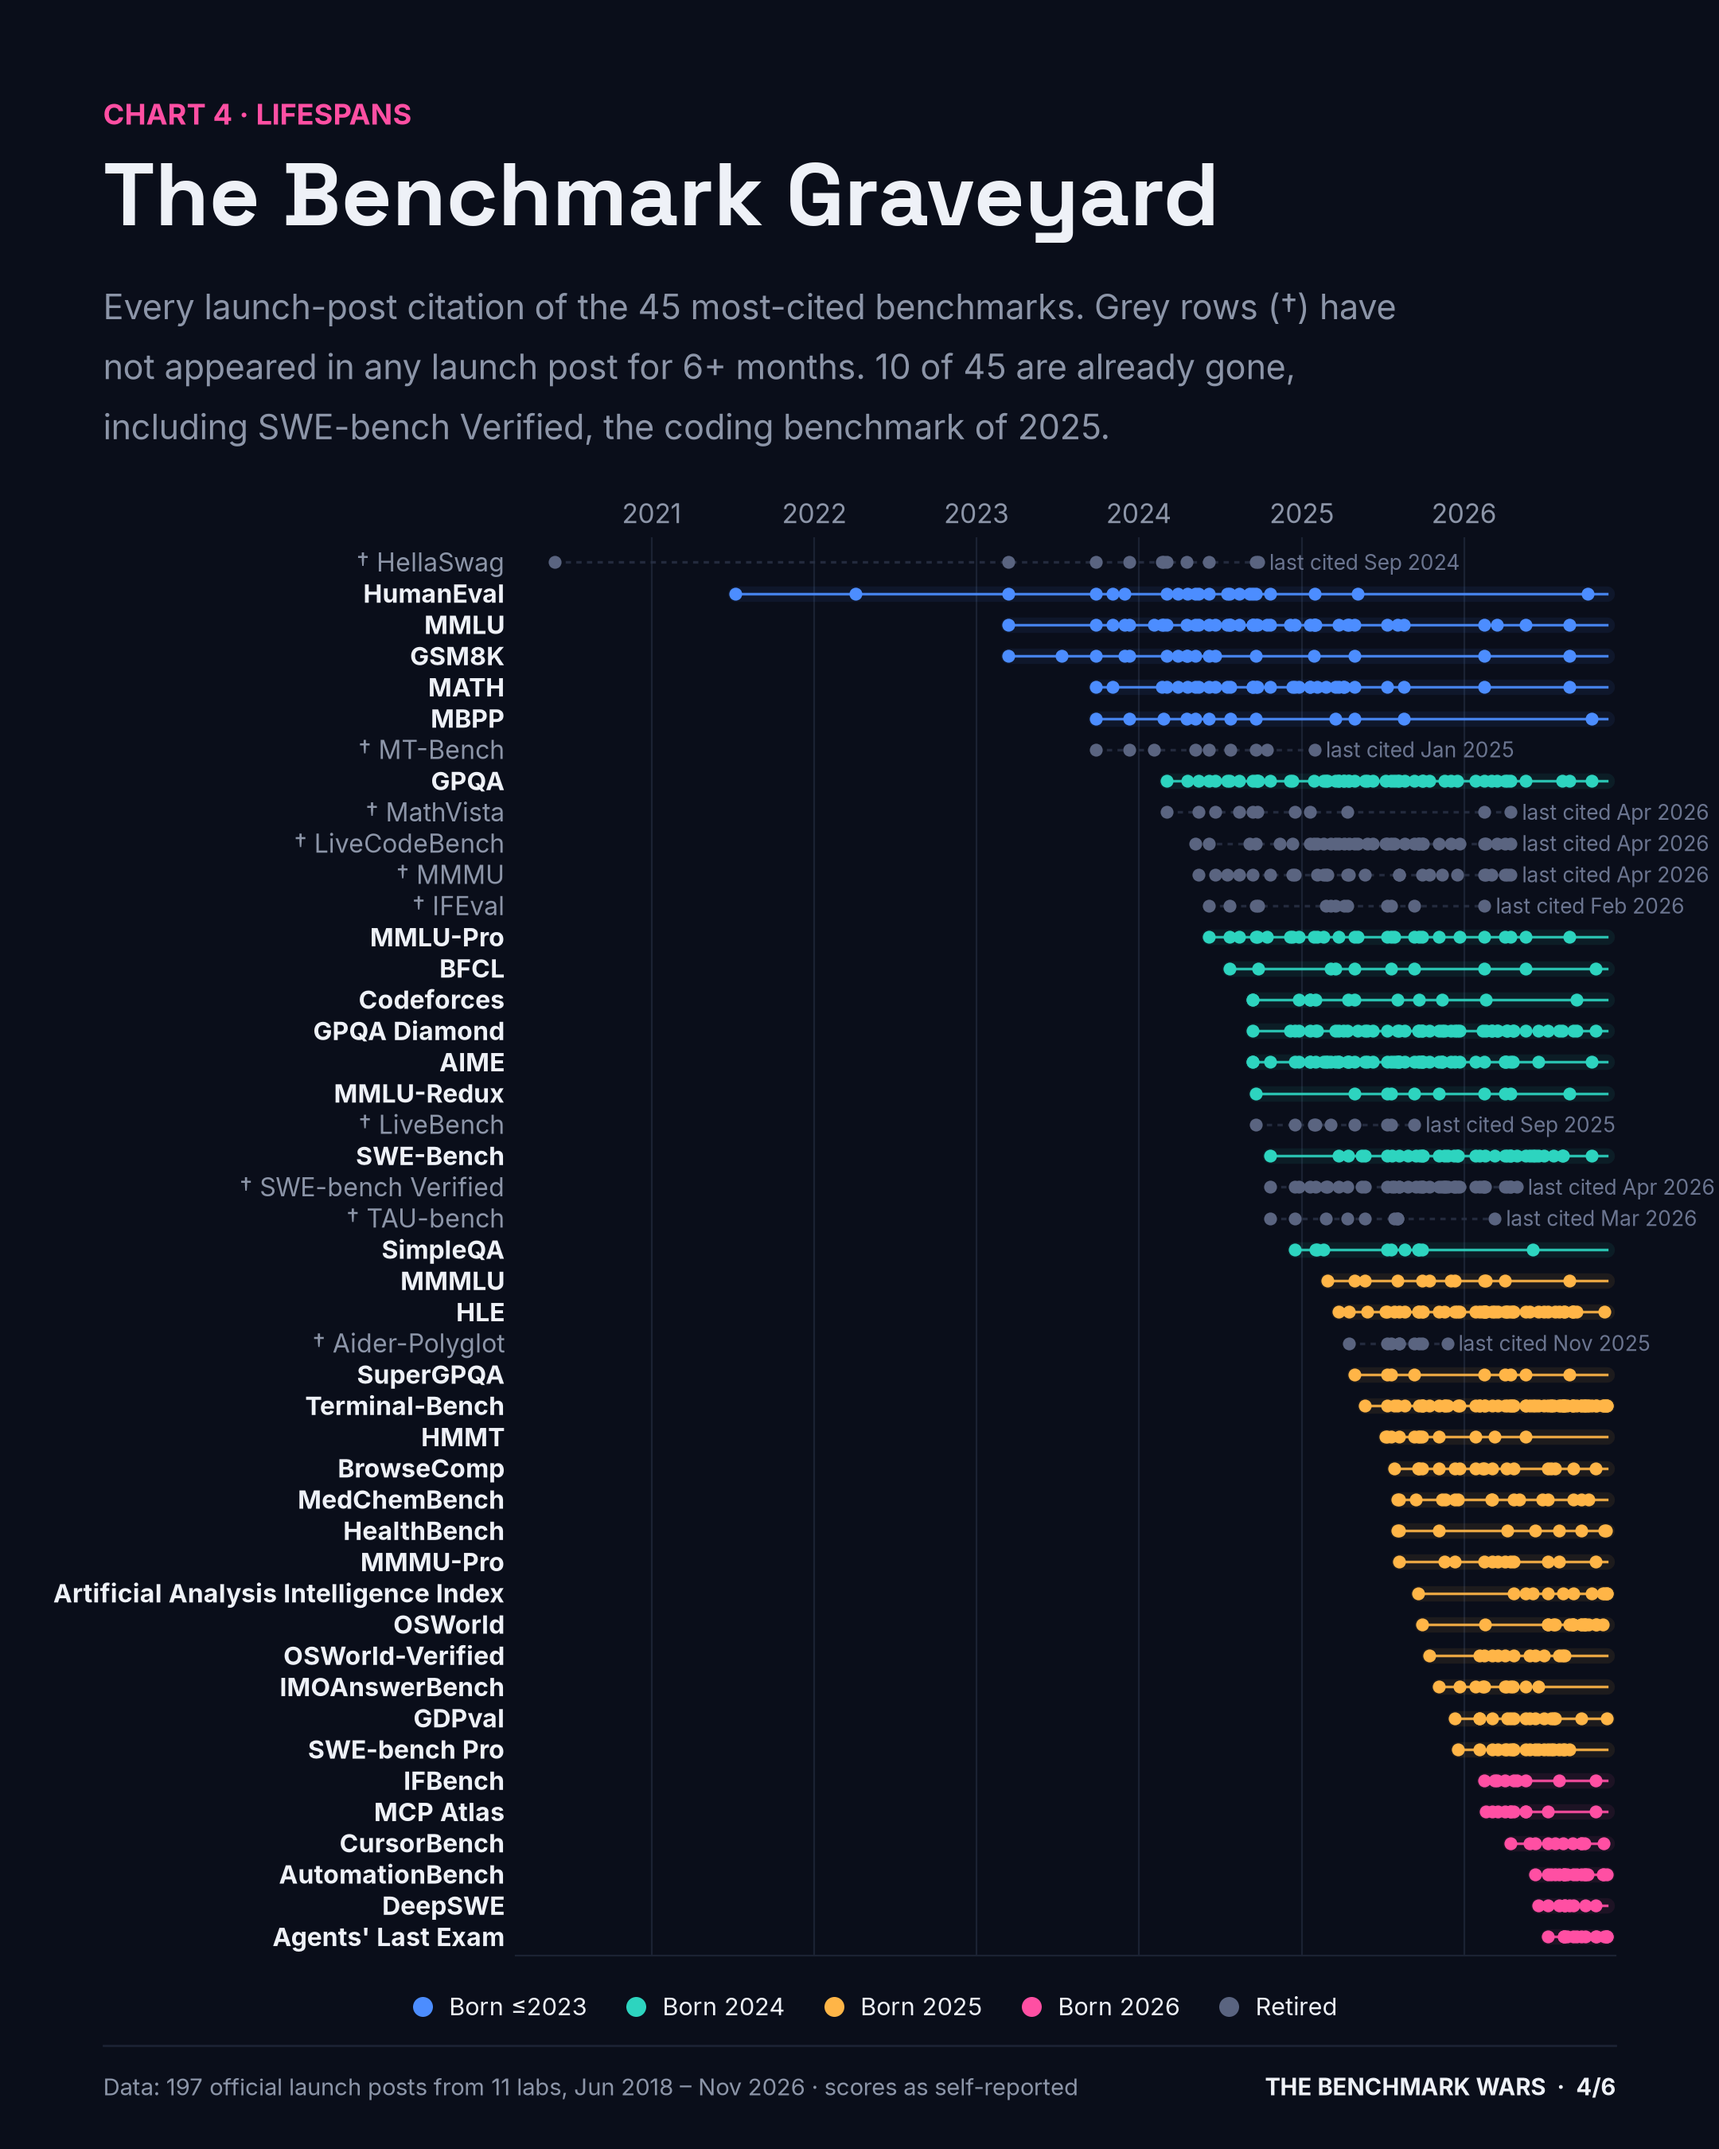
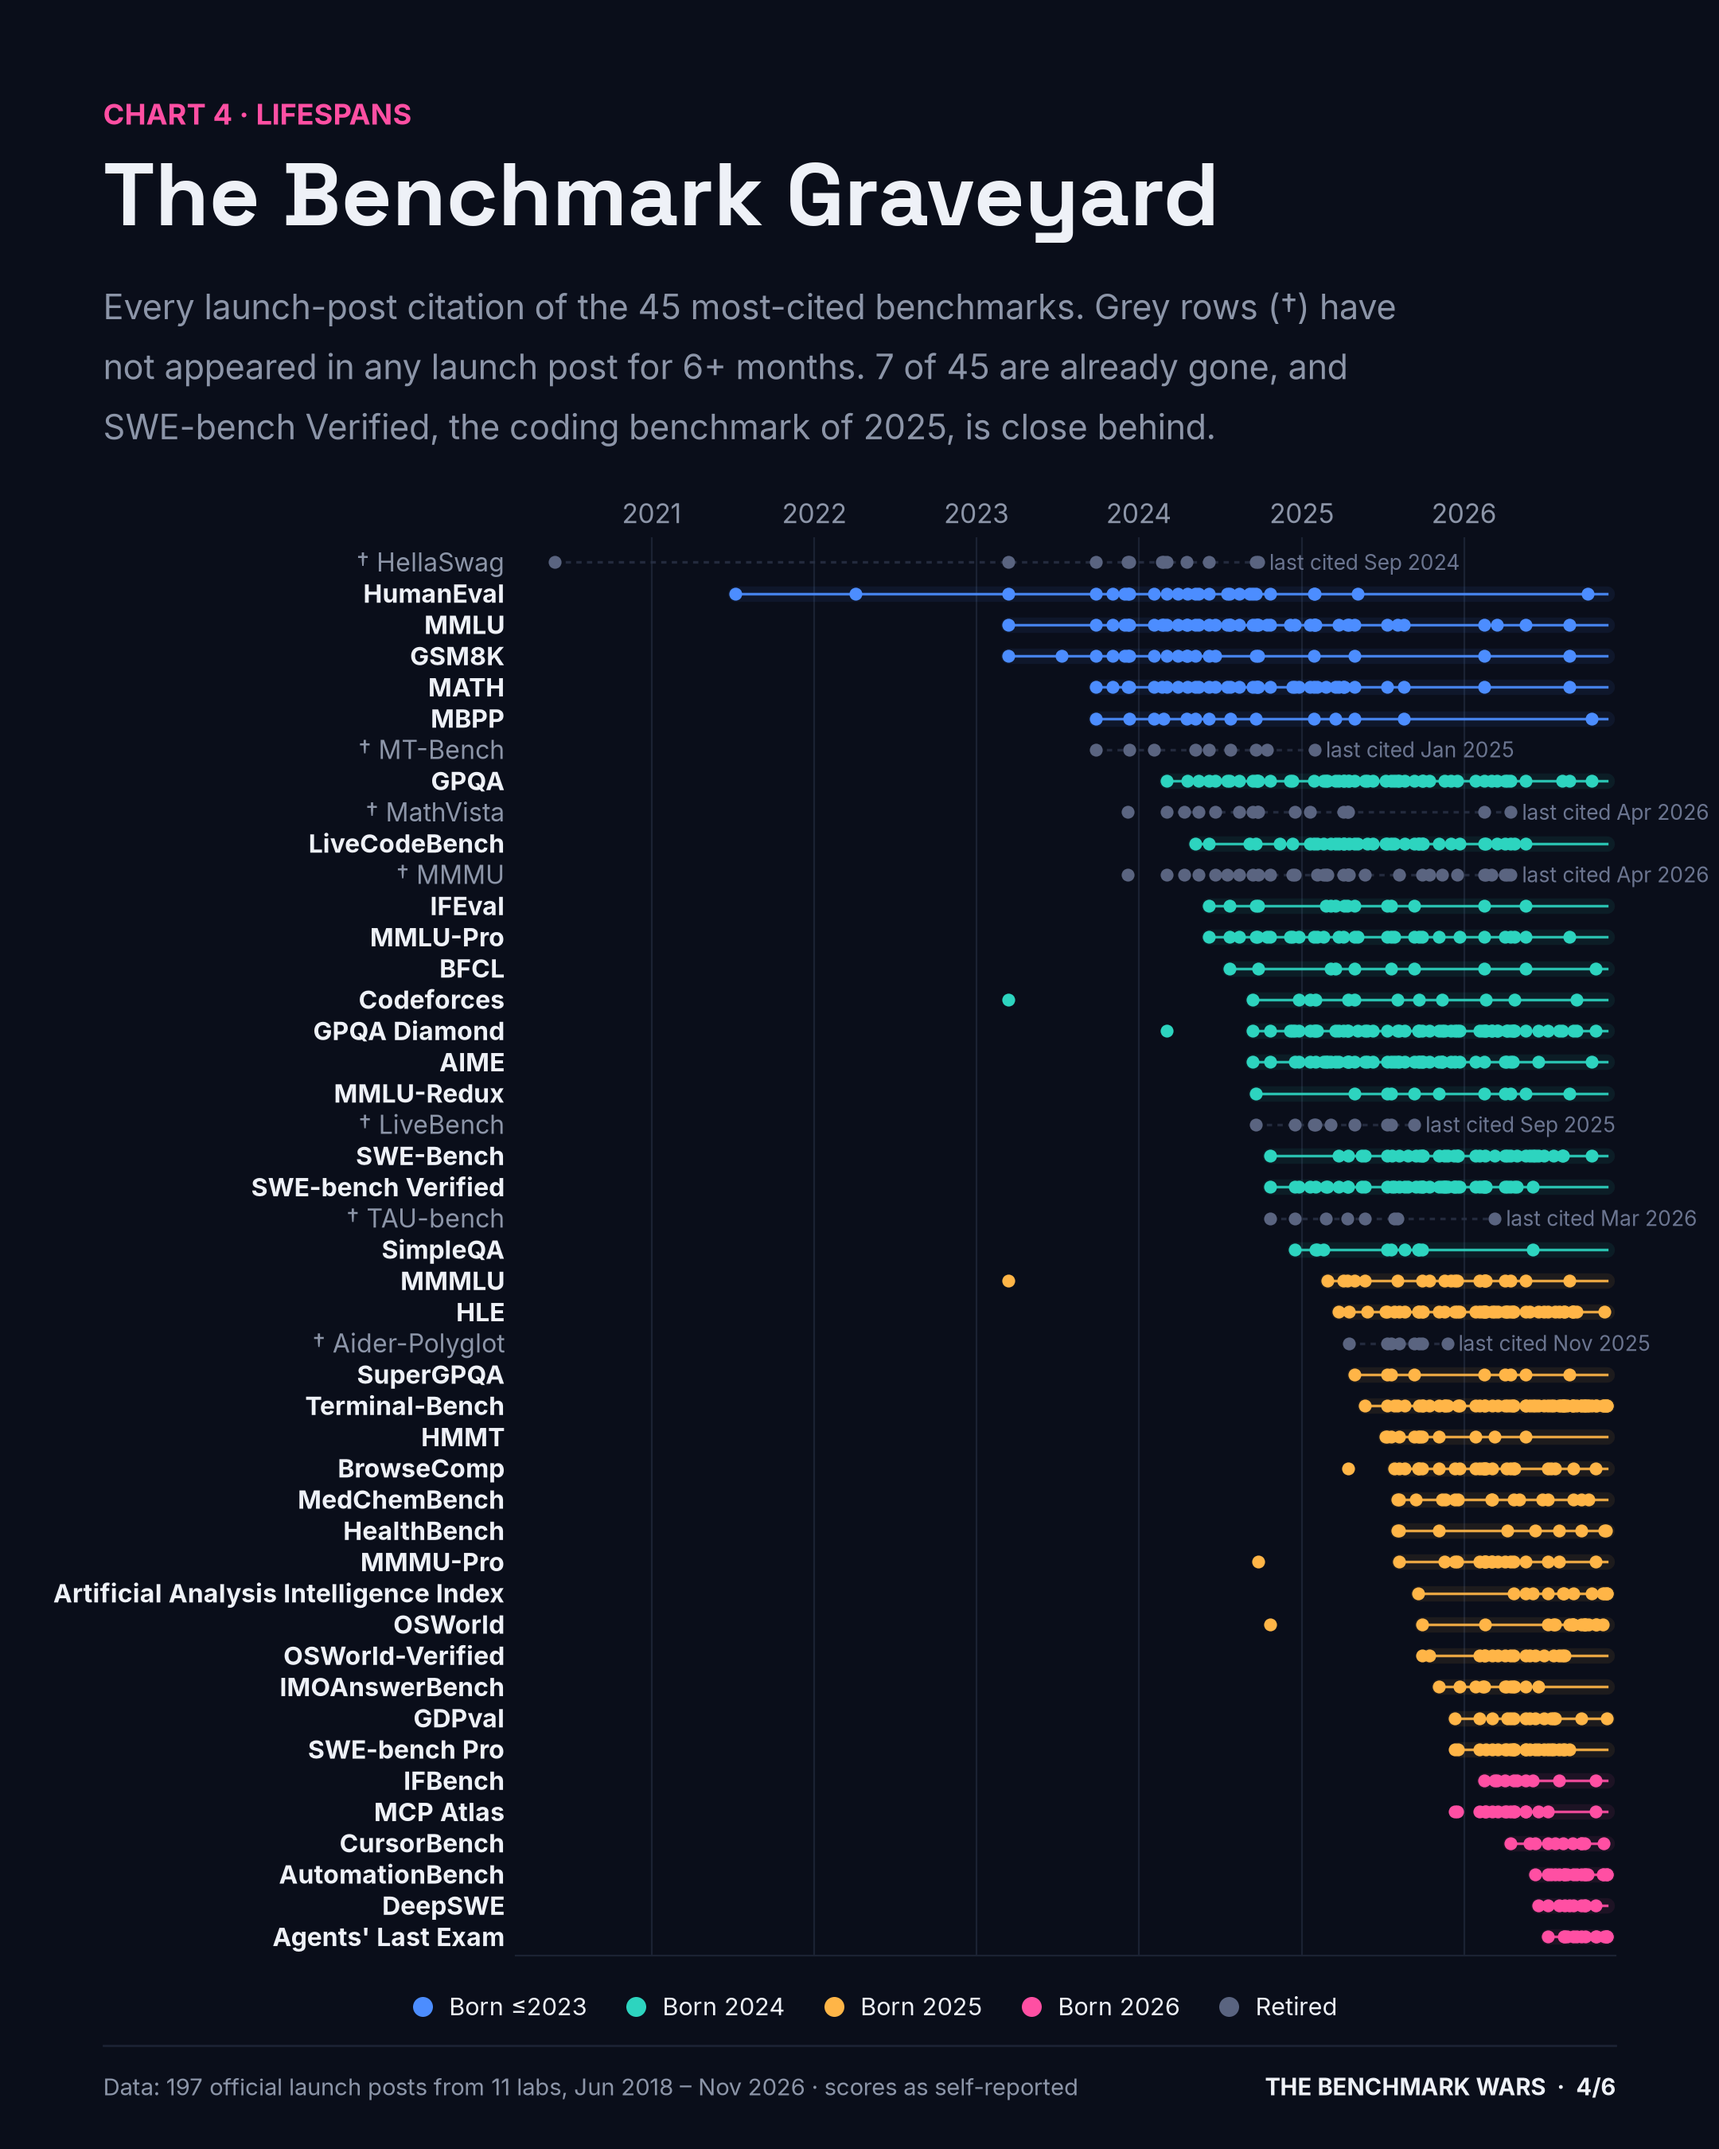
Use results CSV citations when dating benchmark retirement

diff --git a/charts/c4.py b/charts/c4.py
@@ -2,13 +2,17 @@ import os; HERE=os.path.dirname(os.path.abspath(__file__)); exec(open(os.path.jo
 import numpy as np, matplotlib.dates as mdates
 END=pd.Timestamp('2026-11-18'); CUT=END-pd.DateOffset(months=6)
 f=F[(F.announcements>=9)&(F.benchmark_family!='Bench')].sort_values('first_seen').reset_index(drop=True)
+LA=set(zip(A.date,A.provider))
+RC=R.assign(provider=R.Provider.replace({'Alibaba':'Alibaba Qwen','Mistral AI':'Mistral'}),fam=R['Benchmark (counting label)'].str.lower())
+RC=RC[[k in LA for k in zip(RC.date,RC.provider)]]
+f['last_seen']=pd.concat([f.last_seen,f.benchmark_family.str.lower().map(RC.groupby('fam').date.max())],axis=1).max(axis=1)
 f['dead']=f.last_seen<CUT
 fig=canvas('Chart 4 · Lifespans','The Benchmark Graveyard',
- f'Every launch-post citation of the {len(f)} most-cited benchmarks. Grey rows (†) have\nnot appeared in any launch post for 6+ months. {f.dead.sum()} of {len(f)} are already gone,\nincluding SWE-bench Verified, the coding benchmark of 2025.','4/6')
+ f'Every launch-post citation of the {len(f)} most-cited benchmarks. Grey rows (†) have\nnot appeared in any launch post for 6+ months. {f.dead.sum()} of {len(f)} are already gone, and\nSWE-bench Verified, the coding benchmark of 2025, is close behind.','4/6')
 ax=fig.add_axes([0.30,0.09,0.64,0.66])
 ycol={2020:'#4C8DFF',2021:'#4C8DFF',2023:'#4C8DFF',2024:'#2DD4BF',2025:ACC2,2026:ACC}
 for i,r in f.iterrows():
-    d=SF[SF.benchmark_family==r.benchmark_family].date.dropna()
+    d=pd.concat([SF[SF.benchmark_family==r.benchmark_family].date,RC[RC.fam==r.benchmark_family.lower()].date]).dropna().drop_duplicates()
     c=DIM if r.dead else ycol.get(r.first_seen.year,FG)
     ax.plot([r.first_seen,r.last_seen if r.dead else END],[i,i],color=c,lw=1.2,alpha=0.9 if not r.dead else 0.8,ls='-' if not r.dead else (0,(2,2)))
     if not r.dead: ax.plot([r.first_seen,END],[i,i],color=c,lw=7,alpha=0.08,solid_capstyle='round')

diff --git a/article/the-benchmark-wars.md b/article/the-benchmark-wars.md
@@ -76,18 +76,16 @@ Still, the overall result is hard to dispute. A benchmark that is meant to be ha
 
 When a benchmark saturates, labs don't announce that it's retired. They just stop citing it.
 
-This chart follows the 45 most-cited benchmarks. Each dot is one launch post that cited it. Rows marked † haven't appeared in any launch post for at least six months. **10 of the 45 are already gone:**
+This chart follows the 45 most-cited benchmarks. Each dot is one launch post that cited it. Rows marked † haven't appeared in any launch post for at least six months. **7 of the 45 are already gone:**
 
 - **HellaSwag**, a mainstay since GPT-3 (last cited September 2024)
 - **MT-Bench** (January 2025)
 - **LiveBench** (September 2025)
 - **Aider-Polyglot** (November 2025)
-- **IFEval** (February 2026)
 - **TAU-bench** (March 2026)
-- **MMMU, MathVista and LiveCodeBench** (all last cited April 2026)
-- **SWE-bench Verified** (April 2026)
+- **MMMU and MathVista** (both last cited April 2026)
 
-The last one is the most notable. In 2025, SWE-bench Verified was *the* coding benchmark. It was cited in 41 launch posts by 10 labs and was the main number in almost every coding claim. Then SWE-bench Pro appeared in December 2025, and by spring 2026 labs had moved to the newer, harder version.
+SWE-bench Verified is close behind. In 2025 it was *the* coding benchmark, cited in 41 launch posts by 10 labs and the main number in almost every coding claim. Then SWE-bench Pro appeared in December 2025 and labs moved to the newer, harder version. Verified's last citation was NVIDIA's Nemotron 3 Ultra in June 2026.
 
 Meanwhile, the newest rows at the bottom of the chart are full of names that didn't exist two years ago: AutomationBench, Agents' Last Exam, DeepSWE, CursorBench, MCP Atlas, GDPval. Benchmarks have shifted from *knowledge* (MMLU, HellaSwag) to *reasoning* (GPQA, AIME, HLE) to *agentic work* (Terminal-Bench, OSWorld, AutomationBench). The graveyard shows that shift.
 
